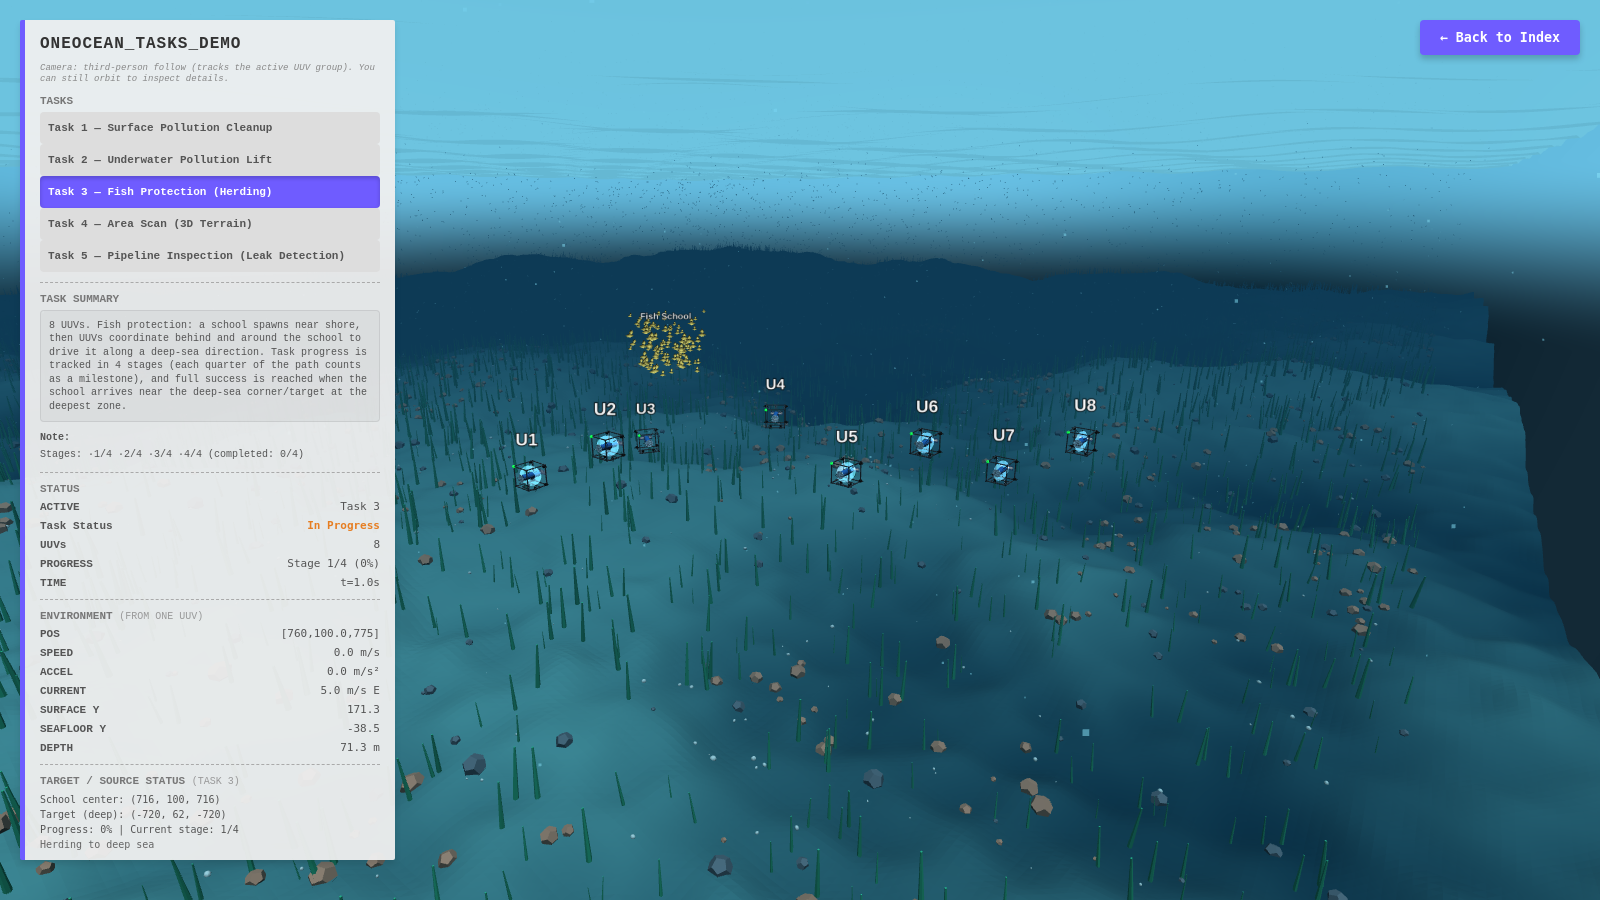
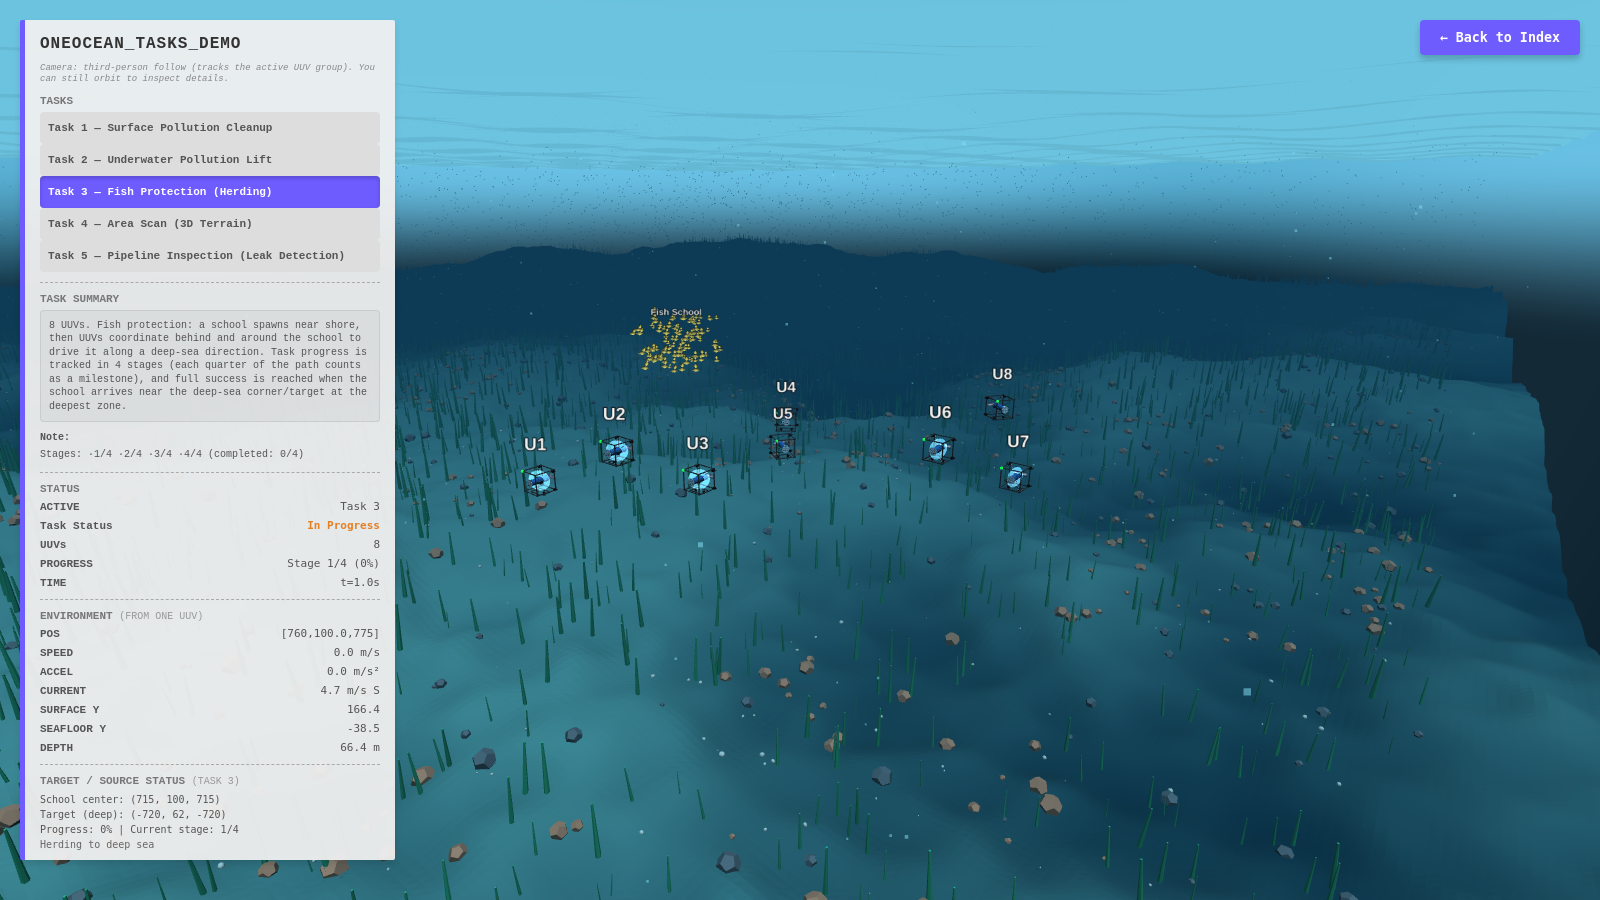
ui(tasks): tighten camera and refresh screenshots

diff --git a/tasks.html b/tasks.html
@@ -2823,10 +2823,10 @@
             followCenter = computeSwarmCenter();
             lastFollowCenter = null;
             controls.target.copy(followCenter);
-            const camOffset = taskId === 'TASK3' ? new THREE.Vector3(32, 17, 41)
-                : taskId === 'TASK2' ? new THREE.Vector3(40, 21, 50)
-                : taskId === 'TASK4' ? new THREE.Vector3(12, 6, 16)
-                : taskId === 'TASK5' ? new THREE.Vector3(12, 6, 16)
+            const camOffset = taskId === 'TASK3' ? new THREE.Vector3(24, 13, 30)
+                : taskId === 'TASK2' ? new THREE.Vector3(26, 14, 32)
+                : taskId === 'TASK4' ? new THREE.Vector3(8, 4, 10)
+                : taskId === 'TASK5' ? new THREE.Vector3(8, 4, 10)
                 : new THREE.Vector3(48, 25, 58);
             camera.position.copy(followCenter).add(camOffset);
             controls.update();

diff --git a/README.md b/README.md
@@ -14,29 +14,29 @@ This folder provides a lightweight, GitHub Pages–friendly underwater web demo 
    - Surface pollution sources are visualized as yellow barrels with visible diffusion.
    - Multiple UUVs approach from different directions; each UUV neutralizes one source at a time with a visible purifier effect.
    - After neutralization, diffusion stops and the source changes color; UUVs continue until all sources are cleaned.
+   
+   <img src="example/task1.png" width="720" />
 
 2. **Task 2 — Underwater Pollution Lift to Surface (5 UUVs)**
    - A barrel near the seabed is attached by four UUVs from front/back/left/right and lifted away from terrain relief.
    - After staying off-terrain briefly, a fifth UUV attaches from below and the team carries the barrel upward to the surface.
+   
+   <img src="example/task2.png" width="720" />
 
 3. **Task 3 — Fish Protection / Herding (8 UUVs)**
    - A fish school spawns near shore; eight UUVs coordinate to herd the school toward a deep-sea target region.
    - Progress is tracked in 4 stages (each quarter of the path is a milestone); reaching the deep-sea corner/target counts as full success.
+   
+   <img src="example/task3.png" width="720" />
 
 4. **Task 4 — Area Scan (3D Terrain)**
    - One UUV performs a lawn-mower scan over a bounded area and marks scanned cells.
    - A live 3D terrain grid preview is reconstructed from the scanned cells.
+   
+   <img src="example/task4.png" width="720" />
 
 5. **Task 5 — Pipeline Inspection (Leak Detection)**
    - One UUV follows a pipeline path and detects three leak points along the route.
    - When a leak is detected, it is marked with a red marker/label; the device view panel shows the inspection camera.
-
-## Screenshots
-
-| Task | Screenshot |
-|---|---|
-| Task 1 — Surface Pollution Cleanup | <img src="example/task1.png" width="520" /> |
-| Task 2 — Underwater Pollution Lift | <img src="example/task2.png" width="520" /> |
-| Task 3 — Fish Protection (Herding) | <img src="example/task3.png" width="520" /> |
-| Task 4 — Area Scan (3D Terrain) | <img src="example/task4.png" width="520" /> |
-| Task 5 — Pipeline Inspection | <img src="example/task5.png" width="520" /> |
+   
+   <img src="example/task5.png" width="720" />
